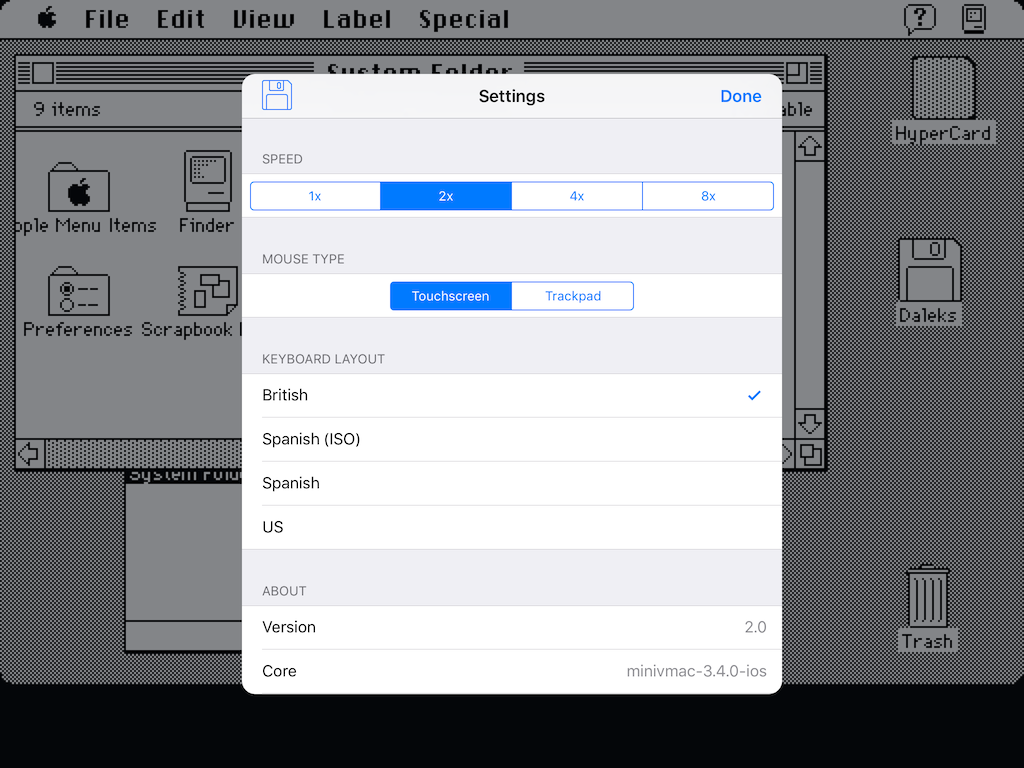
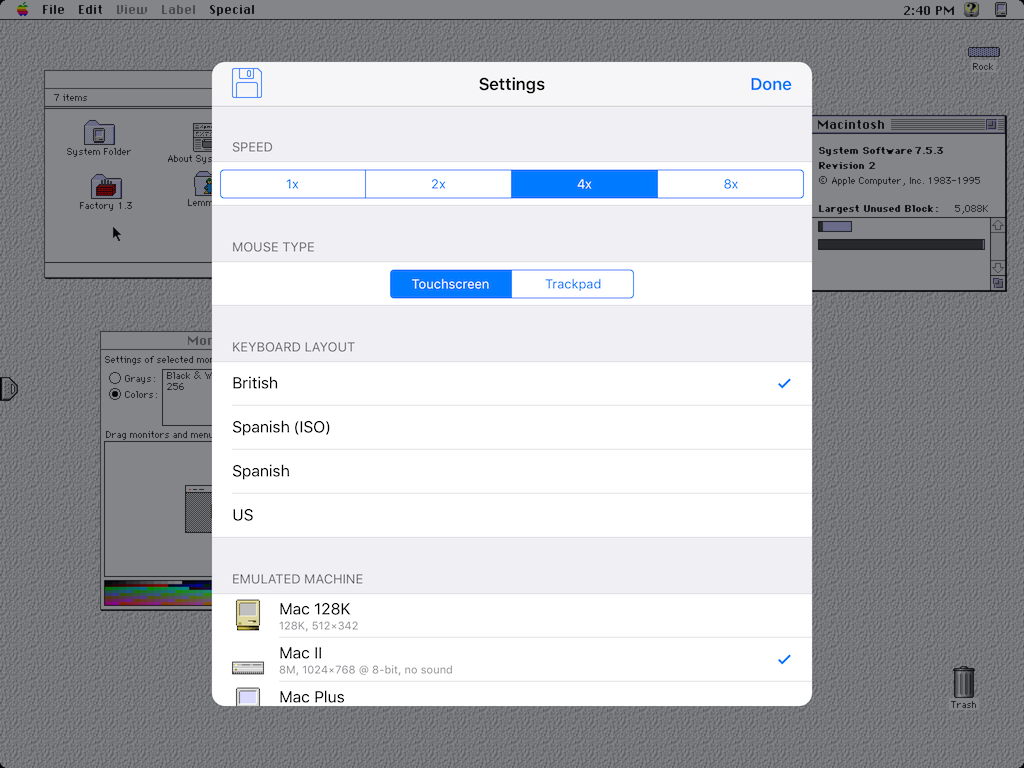
update Mini vMac page with v2.1

diff --git a/minivmac4ios.md b/minivmac4ios.md
@@ -14,9 +14,9 @@ to iOS 9. You can see it in action on this video:
 
 ## Features
 
-* Emulates 4MB Mac Plus
+* Emulates Mac Plus, Mac II or Mac 128K
 * Full simulated keyboard (including all Mac keys)
-* Full sound output
+* Full sound output (except on Mac II)
 * Uses external keyboard if available
 * Regulable emulation speed (up to 8x)
 * Easy(ish) to import/export disk images
@@ -24,7 +24,7 @@ to iOS 9. You can see it in action on this video:
 ## Requirements
 
 * iOS 7 or later
-* Mac Plus ROM image
+* ROM image from Mac Plus, Mac II and/or Mac 128K
 * Disk images with Mac software
 * A Mac with Xcode 7 (required to build)
 
@@ -92,6 +92,7 @@ the following:
 * **Speed:** make the emulated machine faster than a Mac Plus
 * **Mouse Type:** switch between touchscreen and trackpad mode
 * **Keyboard Layout:** change the layout of the emulated keyboard
+* **Emulated Machine:** for changes to take effect, close and relaunch Mini vMac
 
 ### Credits
 
@@ -101,6 +102,13 @@ the following:
 * [hfsutils](http://www.mars.org/home/rob/proj/hfs/) ©1996-2000 Robert Leslie
 
 ## Version History
+
+#### 2.1 - 29<sup>th</sup> May 2016
+
+* Updated Mini vMac core to 3.4 alpha snapshot from 26th May
+* Added Mac II and Mac 128K emulation
+* Support jailbroken devices
+* Bug fixes
 
 #### 2.0 - 23<sup>rd</sup> May 2016
 
